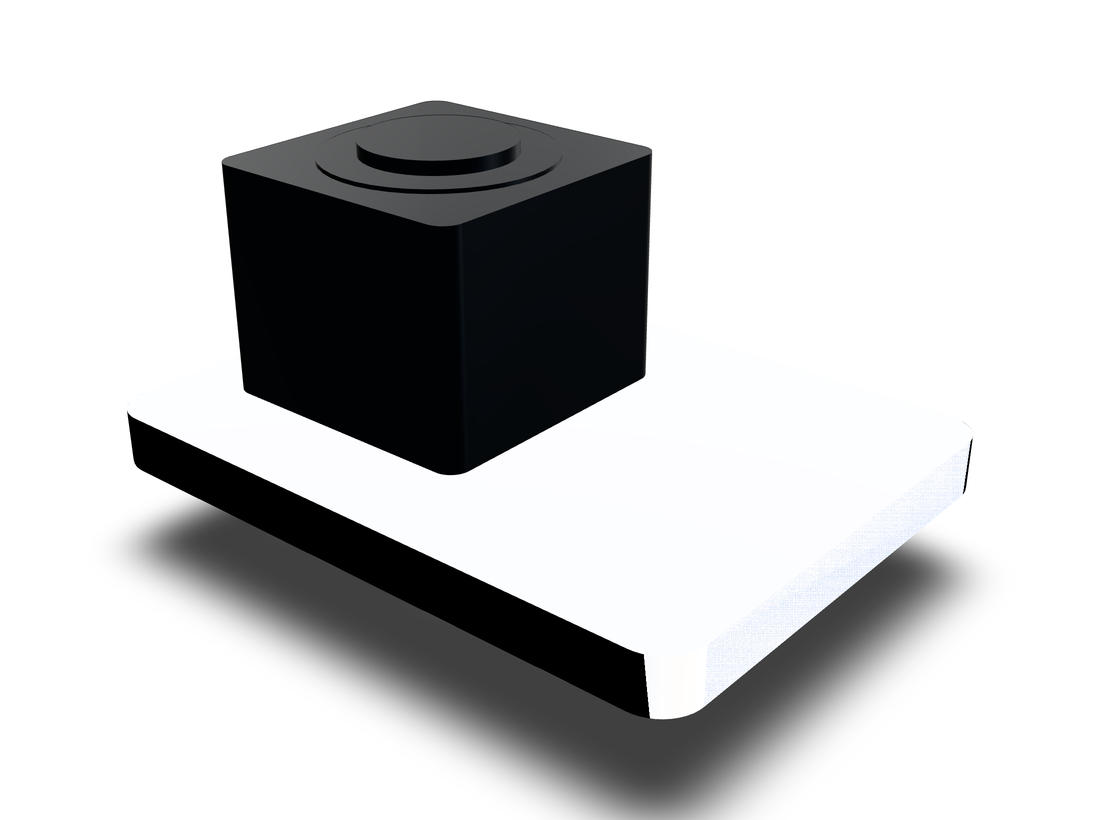
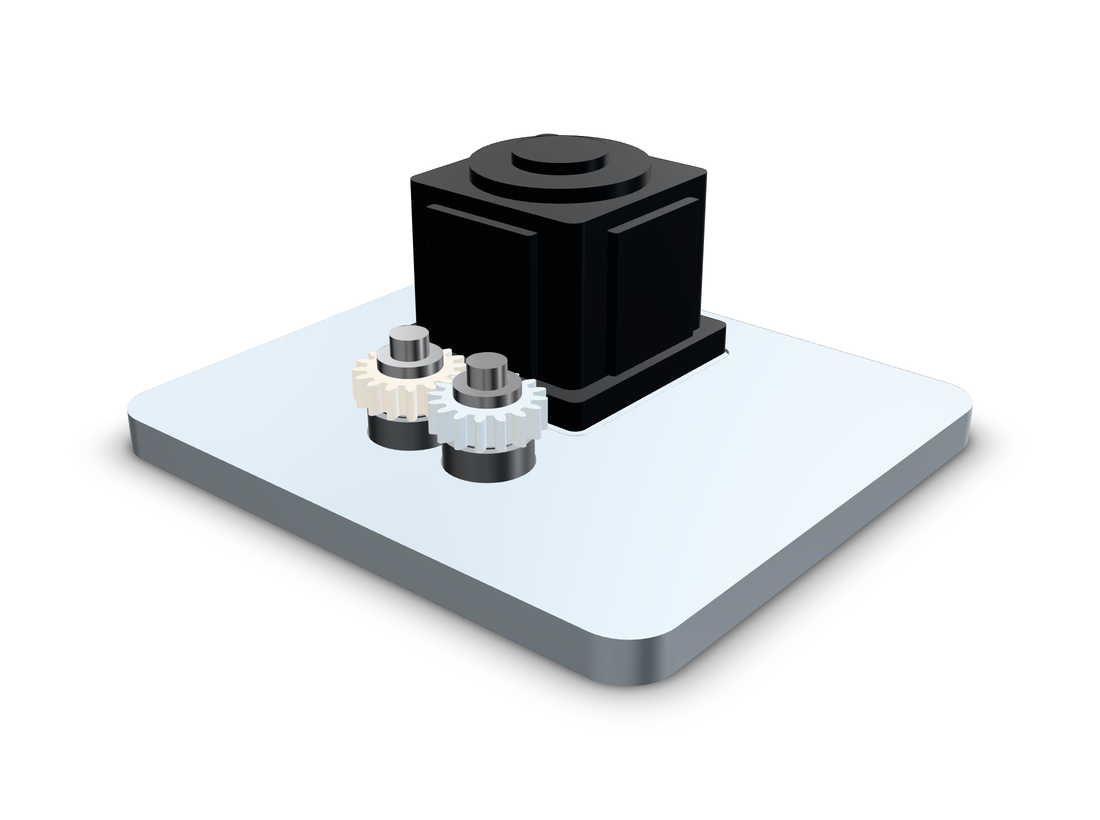
fix(cookbook): put the NEMA spur pair on the hero side of the plate
The 40,26 camera looks down on the deck, so a mesh under the plate never entered the shot. The races, shafts, and meshing gears now stand in front of the motor.

diff --git a/cookbook/snippets/nema-shaft-spur-drive-stack.md b/cookbook/snippets/nema-shaft-spur-drive-stack.md
@@ -52,61 +52,79 @@ const z2 = 16;
 const face = 5;
 const backlash = 0.12;
 const cd = (moduleMm * (z1 + z2)) / 2;
-const shaftR = 3.7;
 const boreD = 8.2;
+// Hero camera is on -Y, 26° above the plate. A pair under the deck is
+// invisible in that shot, so the mesh, races, and shafts stand on the
+// plate in front of the motor.
+const gearY = -36;
+const gearZ = 12.8;
+const bearingZ = 6.2;
 
-let plate = extrudeRoundedRect(96, 72, 6, 8).translate(18, 0, 0);
+let plate = extrudeRoundedRect(108, 96, 8, 7).translate(10, -14, 0);
+plate = plate.subtract(extrudeRoundedRect(44, 44, 3, 0.7).translate(0, 0, 6.35));
 for (const x of [0, cd]) {
-  // Seat opens downward so the race can stand proud of the plate, above the gears.
-  plate = plate.subtract(cylinder(8, 7.35).translate(x, 0, -1.6));
-  plate = plate.subtract(cylinder(14, 4.7).translate(x, 0, -2));
+  // Seat opens upward. Race OD is 14 mm; 0.25 mm radial air, no volume overlap.
+  plate = plate.subtract(cylinder(2.6, 7.25).translate(x, gearY, 5.0));
+  plate = plate.subtract(cylinder(12, 4.7).translate(x, gearY, -1));
 }
 const offs = [[-15.5, -15.5], [15.5, -15.5], [-15.5, 15.5], [15.5, 15.5]] as const;
 for (const [u, v] of offs) {
   plate = plate
-    .subtract(cylinder(12, 1.7).translate(u, v, -2))
-    .subtract(cylinder(2.4, 3.1).translate(u, v, 5.6));
+    .subtract(cylinder(12, 1.8).translate(u, v, -2))
+    .subtract(cylinder(2.8, 3.2).translate(u, v, 4.4));
 }
 plate = plate
   .datum('A', { atZ: 0 })
-  .datum('B', { atX: -30 })
-  .datum('C', { atY: -32 })
-  .finish('aluminium-brushed');
+  .datum('B', { atX: -44 })
+  .datum('C', { atY: -62 })
+  .finish('anodized', { color: '#c5d0d8' });
 
 function bearingAt(x: number) {
   // OD 14 mm so the two races clear a 16 mm center distance (r=11 would intersect).
   const outer = path()
-    .moveTo(5.55, 0).lineTo(7, 0).lineTo(7, 7).lineTo(5.55, 7)
-    .lineTo(5.55, 4.7).lineTo(6.15, 3.5).lineTo(5.55, 2.3).lineTo(5.55, 0)
+    .moveTo(5.55, 0).lineTo(7, 0).lineTo(7, 5.5).lineTo(5.55, 5.5)
+    .lineTo(5.55, 3.7).lineTo(6.2, 2.75).lineTo(5.55, 1.8).lineTo(5.55, 0)
     .close().revolve();
   const inner = path()
-    .moveTo(4.2, 0).lineTo(5.15, 0).lineTo(5.15, 2.3).lineTo(4.6, 3.5)
-    .lineTo(5.15, 4.7).lineTo(5.15, 7).lineTo(4.2, 7).lineTo(4.2, 0)
+    .moveTo(4.2, 0).lineTo(5.15, 0).lineTo(5.15, 1.8).lineTo(4.55, 2.75)
+    .lineTo(5.15, 3.7).lineTo(5.15, 5.5).lineTo(4.2, 5.5).lineTo(4.2, 0)
     .close().revolve();
-  let balls = sphere(0.85).translate(5.35, 0, 3.5);
+  let balls = sphere(0.75).translate(5.35, 0, 2.75);
   for (let i = 1; i < 6; i += 1) {
     const a = (2 * Math.PI * i) / 6;
-    balls = balls.union(sphere(0.85).translate(5.35 * Math.cos(a), 5.35 * Math.sin(a), 3.5));
+    balls = balls.union(sphere(0.75).translate(5.35 * Math.cos(a), 5.35 * Math.sin(a), 2.75));
   }
-  return outer.union(inner, balls).translate(x, 0, -1.15).finish('steel');
+  return outer.union(inner, balls).translate(x, gearY, bearingZ).finish('steel');
 }
 function shaftAt(x: number) {
+  // Journal through the plate and the race, shoulder in the air gap,
+  // nose through the gear, collar above the mesh.
   return path()
-    .moveTo(0, -14).lineTo(shaftR, -14).lineTo(shaftR, -4.75)
-    .lineTo(4.5, -4.75).lineTo(4.5, -1.45)
-    .lineTo(3.5, -1.45).lineTo(3.5, 8).lineTo(0, 8)
-    .close().revolve().translate(x, 0, 0).finish('stainless');
+    .moveTo(0, 1.5).lineTo(3.35, 1.5).lineTo(3.35, 11.85)
+    .lineTo(4.5, 11.85).lineTo(4.5, 12.65)
+    .lineTo(3.45, 12.65).lineTo(3.45, 18.1)
+    .lineTo(5.15, 18.1).lineTo(5.15, 20)
+    .lineTo(3.05, 20).lineTo(3.05, 23.5)
+    .lineTo(0, 23.5)
+    .close().revolve().translate(x, gearY, 0).finish('stainless');
 }
-function gearAt(x: number, phase: number) {
+function gearAt(x: number, phase: number, color: string) {
   return spurGear({ module: moduleMm, teeth: z1, faceWidth: face, bore: boreD, backlash })
     .rotateZ(phase)
-    .translate(x, 0, -10)
-    .finish('abs', { color: '#f3efe4' });
+    .translate(x, gearY, gearZ)
+    .finish('abs', { color });
 }
 
-const motorBody = extrudeRoundedRect(42.3, 42.3, 3, 33).translate(0, 0, 8.2)
-  .union(cylinder(2.4, 16.5).translate(0, 0, 39.4))
-  .union(cylinder(2.2, 11).translate(0, 0, 41.6))
+const flangeZ = 7.3;
+let motorBody = extrudeRoundedRect(42.3, 42.3, 2, 5).translate(0, 0, flangeZ);
+motorBody = motorBody
+  .union(extrudeRoundedRect(36, 36, 2.4, 28).translate(0, 0, flangeZ + 4.6))
+  .union(extrudeRoundedRect(22, 2.2, 0.6, 24).translate(0, 19.4, flangeZ + 6))
+  .union(extrudeRoundedRect(22, 2.2, 0.6, 24).translate(0, -19.4, flangeZ + 6))
+  .union(extrudeRoundedRect(2.2, 22, 0.6, 24).translate(19.4, 0, flangeZ + 6))
+  .union(extrudeRoundedRect(2.2, 22, 0.6, 24).translate(-19.4, 0, flangeZ + 6))
+  .union(cylinder(2.6, 15).translate(0, 0, flangeZ + 32.4))
+  .union(cylinder(2.2, 8).translate(0, 0, flangeZ + 34.8))
   .finish('anodized-black');
 
 const arm = assembly('nema-spur-stack');
@@ -116,32 +134,41 @@ const db = arm.part('drive-bearing', bearingAt(0), { material: 'mild-steel' });
 const ib = arm.part('idler-bearing', bearingAt(cd), { material: 'mild-steel' });
 const ds = arm.part('drive-shaft', shaftAt(0), { material: 'mild-steel' });
 const idler = arm.part('idler-shaft', shaftAt(cd), { material: 'mild-steel' });
-const pinion = arm.part('pinion', gearAt(0, 0), { material: 'nylon' });
-const gear = arm.part('gear', gearAt(cd, z2 % 2 === 0 ? 180 / z2 : 0), { material: 'nylon' });
+const pinion = arm.part('pinion', gearAt(0, 0, '#f3efe4'), { material: 'nylon' });
+const gear = arm.part('gear', gearAt(cd, z2 % 2 === 0 ? 180 / z2 : 0, '#d5e2ea'), { material: 'nylon' });
 
 function axisConn(part, name, x, z, clearance) {
   part.connector(name, {
     type: 'axis',
-    origin: { kind: 'vec3', value: [x, 0, z] },
+    origin: { kind: 'vec3', value: [x, gearY, z] },
     axis: [0, 0, 1],
     ...(clearance ? { jointClearanceRadius: clearance } : {}),
   });
 }
-axisConn(db, 'bore', 0, 4, 4.3);
-axisConn(ds, 'axis', 0, 4);
+axisConn(db, 'bore', 0, 9, 4.3);
+axisConn(ds, 'axis', 0, 9);
 
+const gearMidZ = gearZ + face / 2;
 pinion.connector('bore', {
-  type: 'frame', origin: { kind: 'vec3', value: [0, 0, -7.5] }, jointClearanceRadius: 4.3,
+  type: 'frame', origin: { kind: 'vec3', value: [0, gearY, gearMidZ] }, jointClearanceRadius: 4.3,
 });
-ds.connector('pinion', { type: 'frame', origin: { kind: 'vec3', value: [0, 0, -7.5] } });
+ds.connector('pinion', { type: 'frame', origin: { kind: 'vec3', value: [0, gearY, gearMidZ] } });
 gear.connector('bore', {
-  type: 'frame', origin: { kind: 'vec3', value: [cd, 0, -7.5] }, jointClearanceRadius: 4.3,
+  type: 'frame', origin: { kind: 'vec3', value: [cd, gearY, gearMidZ] }, jointClearanceRadius: 4.3,
 });
-idler.connector('gear', { type: 'frame', origin: { kind: 'vec3', value: [cd, 0, -7.5] } });
-db.connector('seat', { type: 'frame', origin: { kind: 'vec3', value: [0, 0, 4] } });
-pl.connector('drive-seat', { type: 'frame', origin: { kind: 'vec3', value: [0, 0, 4] } });
-ib.connector('seat', { type: 'frame', origin: { kind: 'vec3', value: [cd, 0, 4] } });
-pl.connector('idler-seat', { type: 'frame', origin: { kind: 'vec3', value: [cd, 0, 4] } });
+idler.connector('gear', { type: 'frame', origin: { kind: 'vec3', value: [cd, gearY, gearMidZ] } });
+db.connector('seat', {
+  type: 'frame', origin: { kind: 'vec3', value: [0, gearY, 9] }, jointClearanceRadius: 4.3,
+});
+pl.connector('drive-seat', {
+  type: 'frame', origin: { kind: 'vec3', value: [0, gearY, 9] }, jointClearanceRadius: 7.3,
+});
+ib.connector('seat', {
+  type: 'frame', origin: { kind: 'vec3', value: [cd, gearY, 9] }, jointClearanceRadius: 4.3,
+});
+pl.connector('idler-seat', {
+  type: 'frame', origin: { kind: 'vec3', value: [cd, gearY, 9] }, jointClearanceRadius: 7.3,
+});
 
 offs.forEach(([u, v], i) => {
   const at = [u, v, 8] as [number, number, number];
@@ -156,9 +183,9 @@ arm.mate('motor-face', 'motor.bolt-holes-1', 'plate.bolt-holes-1', 'fastened');
 arm.mate('drive-seat', 'drive-bearing.seat', 'plate.drive-seat', 'fastened');
 arm.mate('idler-seat', 'idler-bearing.seat', 'plate.idler-seat', 'fastened');
 arm.mate('drive-spin', 'drive-shaft.axis', 'drive-bearing.bore', 'cylindrical');
-idler.connector('seat', { type: 'frame', origin: { kind: 'vec3', value: [cd, 0, 4] } });
+idler.connector('seat', { type: 'frame', origin: { kind: 'vec3', value: [cd, gearY, 9] } });
 ib.connector('shaft-seat', {
-  type: 'frame', origin: { kind: 'vec3', value: [cd, 0, 4] }, jointClearanceRadius: 4.3,
+  type: 'frame', origin: { kind: 'vec3', value: [cd, gearY, 9] }, jointClearanceRadius: 4.3,
 });
 arm.mate('idler-seat-shaft', 'idler-shaft.seat', 'idler-bearing.shaft-seat', 'fastened');
 arm.mate('pinion-hub', 'pinion.bore', 'drive-shaft.pinion', 'fastened');
